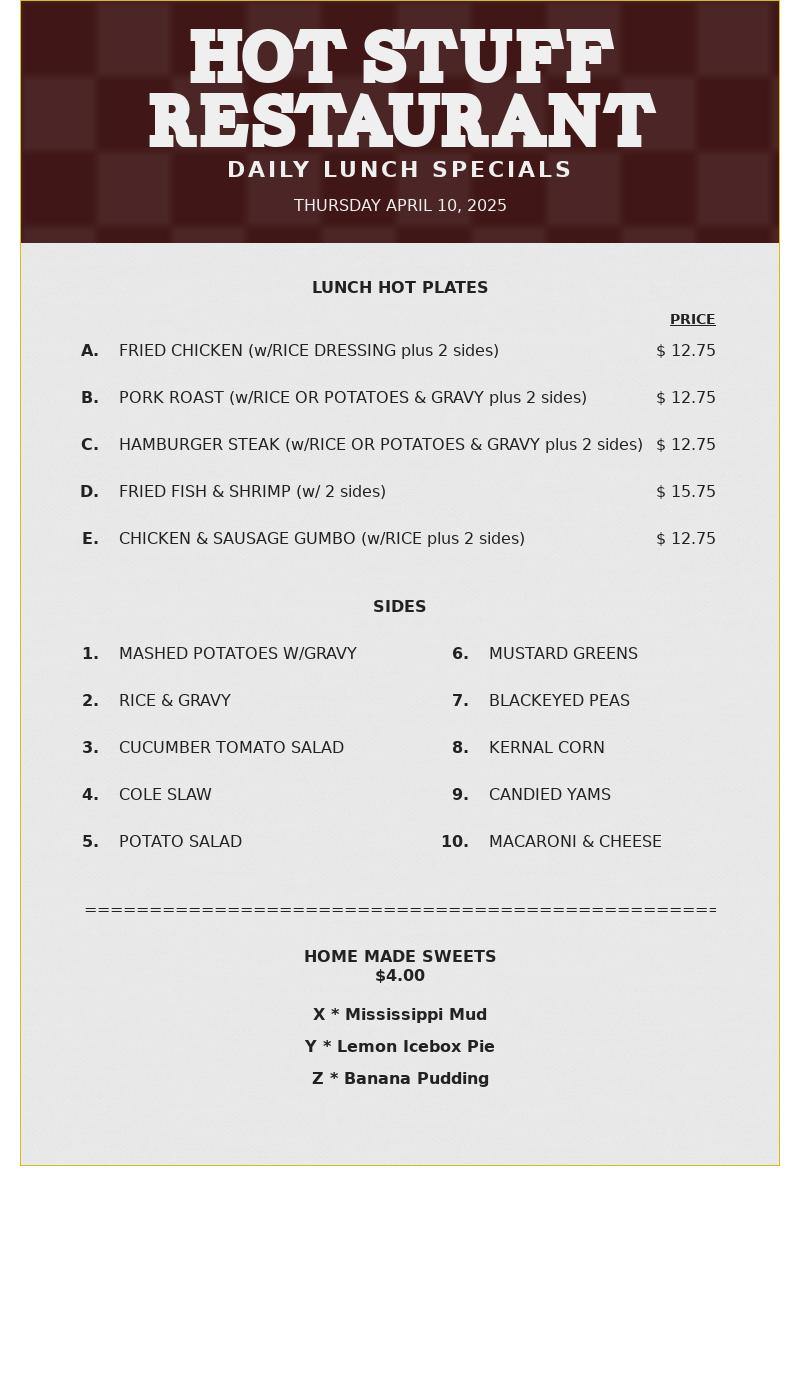
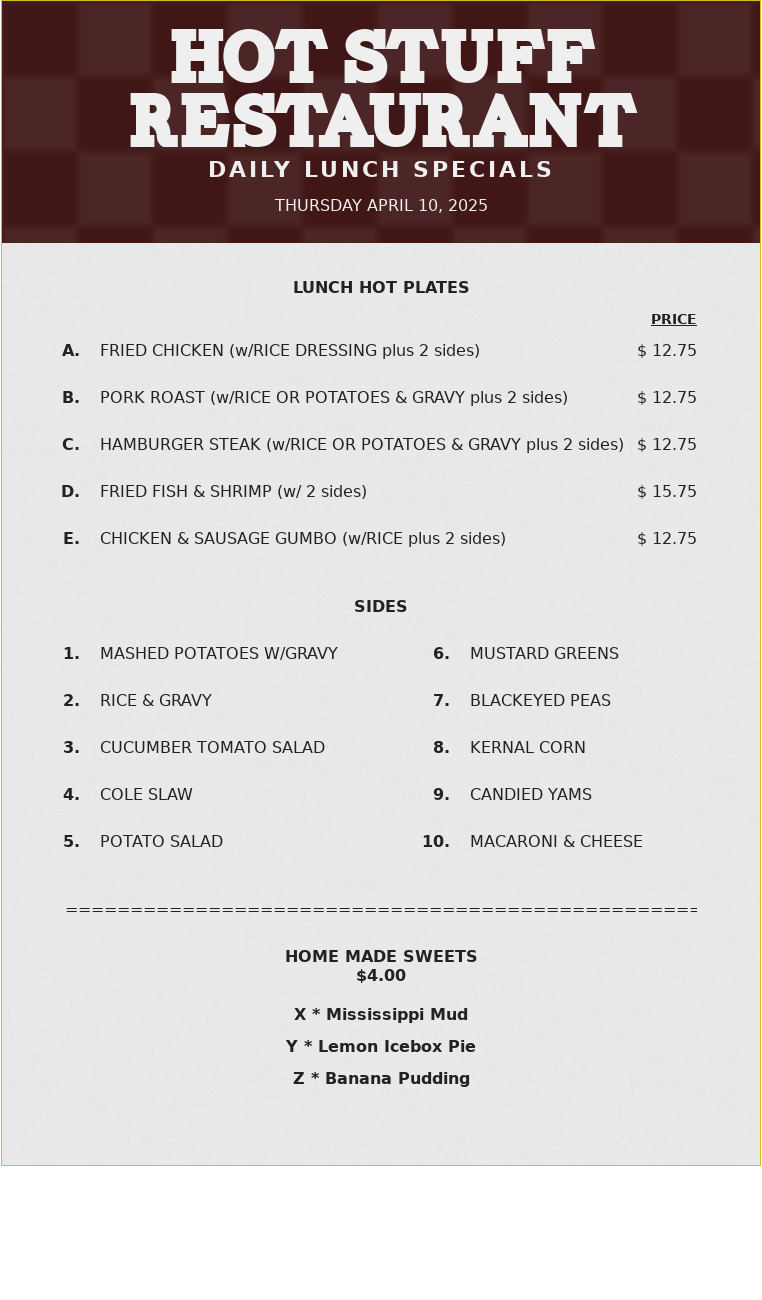
Checkpoint before assistant change: Improve daily special admin page by adding a generated image preview below the form.
Replit-Commit-Author: Assistant

Changed region(s): [[0.0, 0.0, 1.0, 0.8923], [0.5433, 0.4615, 0.815, 0.6154], [0.664, 0.6462, 0.7244, 0.6769]]

diff --git a/django_project/static/css/pages.css b/django_project/static/css/pages.css
@@ -2,7 +2,8 @@
 
 
 div.special-section {
-  margin-bottom: 35px }
+  font-size: 18px;
+  margin-bottom: 21px }
 
 div.special-section h2 {
   text-align: center;
@@ -22,6 +23,8 @@ div.special-section.header h2 {
   letter-spacing: 3px;
   font-size: 22px }
 
+div.special-section.sides { margin-bottom: 0 }
+
 
 ul.specials,
 ul.sides,
@@ -33,7 +36,7 @@ ul.specials {
   ul.specials:before {
     text-transform: uppercase;
     font-weight: bold;
-    font-size: 14px;
+    font-size: 16px;
     display: block;
     width: 100%;
     text-align: right;
@@ -41,10 +44,26 @@ ul.specials {
     content: 'Price' }
 
 
-
 ul.specials li,
 ul.sides li {
   padding: 14px 0 14px 14px }
+
+ul.specials li {
+  position: relative }
+
+  ul.specials li .name-side {
+    width: 90%;
+    overflow: wrap }
+  ul.specials li .name-side strong.tall,
+  ul.specials li .name-side span.veggie {
+    white-space: nowrap;
+  }
+
+  ul.specials li .price {
+    position: absolute;
+    top: 14px; right: 0;
+  }
+
 
 ul.sides li:nth-child(n+6) {
   margin-right: -56px;
@@ -53,11 +72,11 @@ ul.specials li::marker,
 ul.sides li::marker {
   font-weight: bold }
 
-ul.specials li span.price { display: inline-block; float: right }
 
 ul.sides { 
   list-style-type: number;
   columns: 2 }
+ul.sides li { font-weight: bold }
 
 div.sweets {
   font-weight: bold;
@@ -71,6 +90,12 @@ ul.sweets {
 
 /* Print-specific styles */
 @media print {
+  div.special-section h1 { font-size: 49px }
+  div.special-section.header {
+    padding-bottom: 0;
+    padding-top: 0 }
+
+  
   div.special-section {
     page-break-inside: avoid;
     break-inside: avoid;

diff --git a/django_project/static/css/atoms.css b/django_project/static/css/atoms.css
@@ -22,3 +22,11 @@ a {
   color: inherit }
 
 .tall { text-transform: uppercase }
+
+@media print {
+  .no-pad-print { padding: 0 }
+  .no-pad-x-print {
+    padding-top: 0;
+    padding-bottom: 0 }
+
+}

diff --git a/django_project/static/css/templates.css b/django_project/static/css/templates.css
@@ -20,7 +20,7 @@ h1, h2, h3, h4, h5 h6 { margin: 0 }
 
 h1 {
   text-align: center;
-  font-size: 72px;
+  font-size: 70px;
   font-family: var(--head-fonts) }
 
 h2 { text-transform: uppercase }

diff --git a/django_project/utils.py b/django_project/utils.py
@@ -76,7 +76,7 @@ def take_screenshot(url, output_file):
             if chrome_path:
                 hti = Html2Image(
                     output_path=temp_dir,
-                    size=(760, 1400),
+                    size=(762, 1300),
                     browser_executable=chrome_path,
                     custom_flags=['--no-sandbox', '--disable-gpu', '--disable-dev-shm-usage', '--headless'],
                 )
@@ -85,7 +85,7 @@ def take_screenshot(url, output_file):
                 print("No Chrome executable found, using default configuration")
                 hti = Html2Image(
                     output_path=temp_dir,
-                    size=(760, 1400),
+                    size=(762, 1300),
                     custom_flags=['--no-sandbox', '--disable-gpu', '--disable-dev-shm-usage', '--headless'],
                 )
 
@@ -94,8 +94,8 @@ def take_screenshot(url, output_file):
 
             # Wait for page to fully render (including CSS, fonts, images)
             # Sleep before taking screenshot to allow page to render
-            print("Waiting 7 seconds for fonts and styles to load...")
-            time.sleep(7)  # Increased wait time to ensure fonts load properly
+            print("Waiting 15 seconds for fonts and styles to load...")
+            time.sleep(15)  # Increased wait time to ensure fonts load properly
             img_files = hti.screenshot(
                 url=full_url, 
                 save_as=os.path.basename(output_file)
